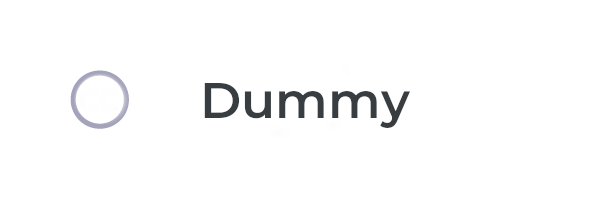
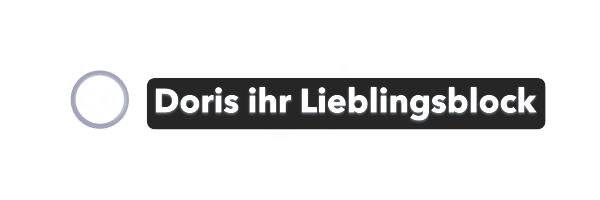
Add files via upload

Changed region(s): [[0.24, 0.39, 0.93, 0.66]]

diff --git a/img-txt/block.php b/img-txt/block.php
@@ -1,8 +1,8 @@
 <?php
 /*
- * Name: Image Text
+ * Name: Image Text CTA
  * Section: content
- * Description: An image and text block
+ * Description: A block with an image, title, text, and a CTA button in a single container
  */
 
 /* @var $options array */
@@ -10,27 +10,37 @@
 // On future releases of Newsletter, default options will be part of the options.php
 // file, it is the best place to have them. By now, be patience.
 
-// The "block_*" options are reserved and could be processed dutrectly by Newsletter. For example the
-// "block_background" and "block_padding_*" are used to generated the wrapper of the block content.
+// The "block_*" options are reserved and could be processed directly by Newsletter. For example the
+// "block_background" and "block_padding_*" are used to generate the wrapper of the block content.
 
 $default_options = array(
     'title' => 'Your stunning title',
     'text' => 'Your nice text to describe whatever you want to describe.',
+    'button_text' => 'Click Here',
+    'button_link' => '#',
+    'button_background' => '#b31e55',
+    'button_color' => '#f3f6f4',
+    'button_padding_vertical' => 10,
+    'button_padding_horizontal' => 25,
 
-    'block_padding_left' => 15,
-    'block_padding_right' => 15,
-    'block_padding_top' => 15,
+    'block_padding_left' => 0,
+    'block_padding_right' => 0,
+    'block_padding_top' => 0,
     'block_padding_bottom' => 15,
     'block_background' => '', // Leave empty to use the block background set on the newsletter settings
 );
 
 $options = array_merge($default_options, $options);
 
+// Generate title and text styles using TNP_Composer methods
+$title_style = TNP_Composer::get_title_style($options, 'title', $composer);
+$text_style = TNP_Composer::get_text_style($options, 'text', $composer);
+
 // Image preparation (again, that is a bit tricky...)
 
 $media = null;
 if (!empty($options['image']['id'])) {
-    // The $media is an onject containing the image URL and the size to specify in the HTML tag. The image is resized at
+    // The $media is an object containing the image URL and the size to specify in the HTML tag. The image is resized at
     // 2x to be sharp on mobile devices.
     $media = tnp_resize_2x($options['image']['id'], [$composer['width'], 0]);
     // Should never happen but... it happens
@@ -45,11 +55,16 @@ if (!empty($options['image']['id'])) {
 ?>
 
 <?php
-// Here we define a single block style with classes that are then transoformed in inline styles. Style for fonts can be easily generated with
+// Here we define a single block style with classes that are then transformed in inline styles. Style for fonts can be easily generated with
 // the object created above. The style block is REMOVED on rendering.
 ?>
 <style>
+    .title {
+        <?php $title_style->echo_css() ?>
+    }
+    
     .text {
+        <?php $text_style->echo_css() ?>
         padding: 10px 15px 10px 15px;
     }
 </style>
@@ -58,12 +73,37 @@ if (!empty($options['image']['id'])) {
 // The attribute "inline-class" is then replaced with a "style" attribute with all rules of the referenced class. 
 ?>
 
-<h1><?php echo $options['title']?></h1>
+<!-- Single container for the entire block -->
+<table role="presentation" border="0" cellpadding="0" cellspacing="0" align="center" width="100%" style="border-collapse: collapse; width: 100%; background-color: <?php echo esc_attr($options['block_background']); ?>; padding: <?php echo esc_attr($options['block_padding_top']); ?>px <?php echo esc_attr($options['block_padding_right']); ?>px <?php echo esc_attr($options['block_padding_bottom']); ?>px <?php echo esc_attr($options['block_padding_left']); ?>px;">
+    <tbody>
+        <tr>
+            <td align="center" style="padding: 0;">
+                <!-- Image -->
+                <?php if ($media) echo TNP_Composer::image($media) ?>
 
-<?php
-// This methos deal with CSS, attributes, link and so on. 
-?>
+                <!-- Title -->
+                <h2 inline-class="title" style="margin-bottom: 20px;"><?php echo $options['title'] ?></h2>
 
-<?php if ($media) echo TNP_Composer::image($media) ?>
+                <!-- Text -->
+                <p inline-class="text" style="margin-bottom: 20px;"><?php echo $options['text'] ?></p>
 
-<p inline-class="text"><?php echo $options['text']?></p>
+                <!-- Button -->
+                <?php if (!empty($options['button_text'])): ?>
+                    <table border="0" cellpadding="0" cellspacing="0" role="presentation" align="center" style="border-collapse: separate !important; line-height: 100%; width: auto; margin-top: 20px;">
+                        <tbody>
+                            <tr>
+                                <td align="center" bgcolor="<?php echo esc_attr($options['button_background']); ?>" role="presentation" style="border-collapse: separate !important; cursor: auto; mso-padding-alt: <?php echo esc_attr($options['button_padding_vertical']); ?>px <?php echo esc_attr($options['button_padding_horizontal']); ?>px; background: <?php echo esc_attr($options['button_background']); ?>; border-radius: 0px; border: 1px solid #bcbcbc;" valign="middle">
+                                    <a href="<?php echo esc_url($options['button_link']); ?>"
+                                       style="display: inline-block; color: <?php echo esc_attr($options['button_color']); ?>; font-family: <?php echo esc_attr($options['button_font_family'] ?? 'Lucida Sans Unicode, sans-serif'); ?>; font-size: <?php echo esc_attr(($options['button_font_size'] ?? '16') . 'px'); ?>; font-weight: <?php echo esc_attr($options['button_font_weight'] ?? 'normal'); ?>; line-height: 120%; margin: 0; text-decoration: none; text-transform: none; padding: <?php echo esc_attr($options['button_padding_vertical']); ?>px <?php echo esc_attr($options['button_padding_horizontal']); ?>px; mso-padding-alt: 0px; border-radius: 0px; width: auto;"
+                                       target="_blank">
+                                        <?php echo esc_html($options['button_text']); ?>
+                                    </a>
+                                </td>
+                            </tr>
+                        </tbody>
+                    </table>
+                <?php endif; ?>
+            </td>
+        </tr>
+    </tbody>
+</table>

diff --git a/img-txt/options.php b/img-txt/options.php
@@ -8,11 +8,29 @@
  */
 ?>
 
+<?php $fields->media('image', 'Image') ?>
+
 <?php $fields->text('title', 'Title') ?>
+
+<?php $fields->font('title_font', 'Title font', ['family_default' => true, 'size_default' => true, 'weight_default' => true]) ?>
 
 <?php $fields->textarea('text', 'Text') ?>
 
-<?php $fields->media('image', 'Image') ?>
+<?php $fields->font('text_font', 'Text font', ['align' => true, 'family_default' => true, 'size_default' => true, 'weight_default' => true]) ?>
+
+<?php $fields->text('button_text', 'Button Text') ?>
+
+<?php $fields->url('button_link', 'Button Link') ?>
+
+<?php $fields->color('button_background', 'Button Background Color') ?>
+
+<?php $fields->color('button_color', 'Button Text Color') ?>
+
+<?php $fields->number('button_padding_vertical', 'Button Padding Vertical (px)', ['default' => 10]) ?>
+
+<?php $fields->number('button_padding_horizontal', 'Button Padding Horizontal (px)', ['default' => 25]) ?>
+
+<?php $fields->font('button_font', 'Button Font', ['family_default' => true, 'size_default' => true, 'weight_default' => true, 'color_default' => false]) ?>
 
 <?php 
 // Always add that at the bottom: it generates a set of options automatically processed by Newsletter 
